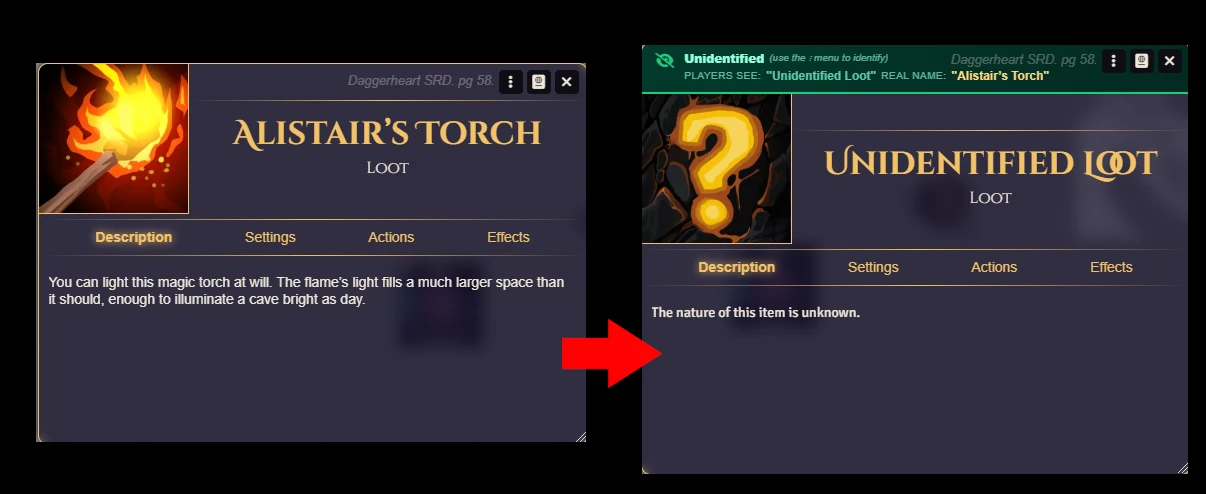
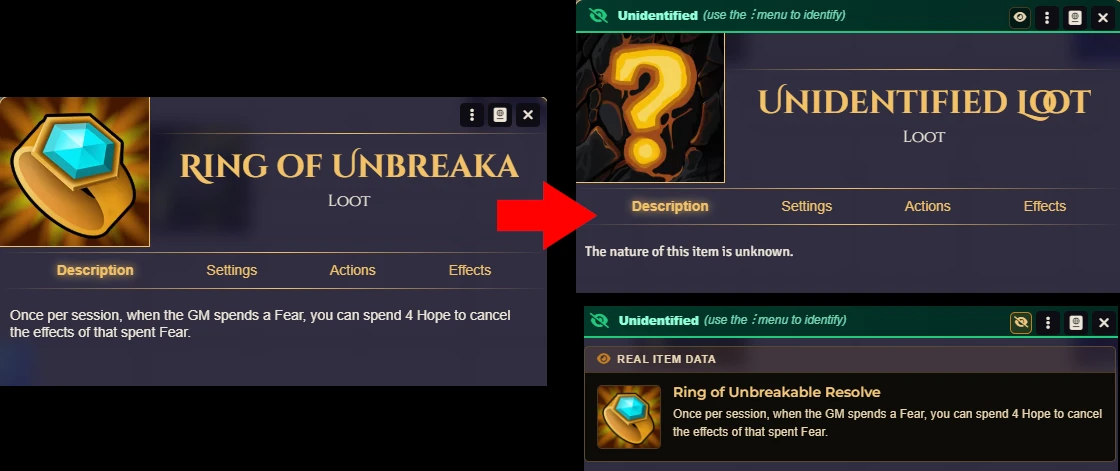
0.0.1

diff --git a/README.md b/README.md
@@ -31,12 +31,22 @@ As the GM, you always see what things really are. Players only see the mask.
 
 That's the experience this module creates.
 
+### GM View
+
 <p align="center">
   <img width="700" src="docs/preview-gm.webp">
 </p>
 
+### Player View
+
 <p align="center">
   <img width="700" src="docs/preview-player.webp">
+</p>
+
+### Identify
+
+<p align="center">
+  <img width="700" src="docs/preview-identify.webp">
 </p>
 
 ---
